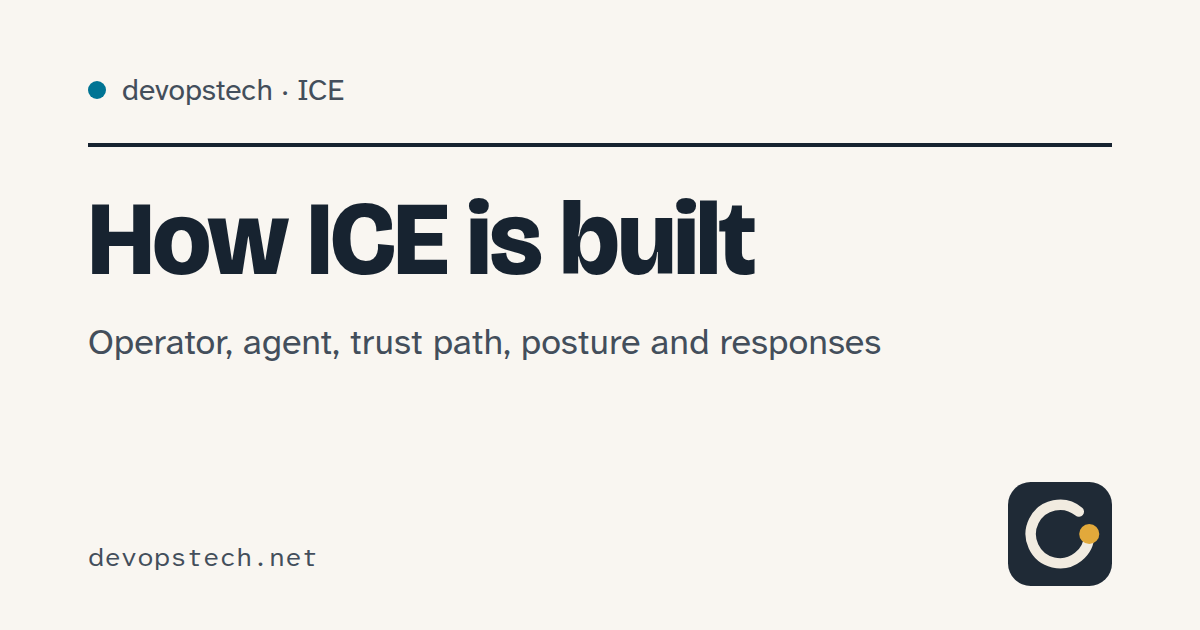
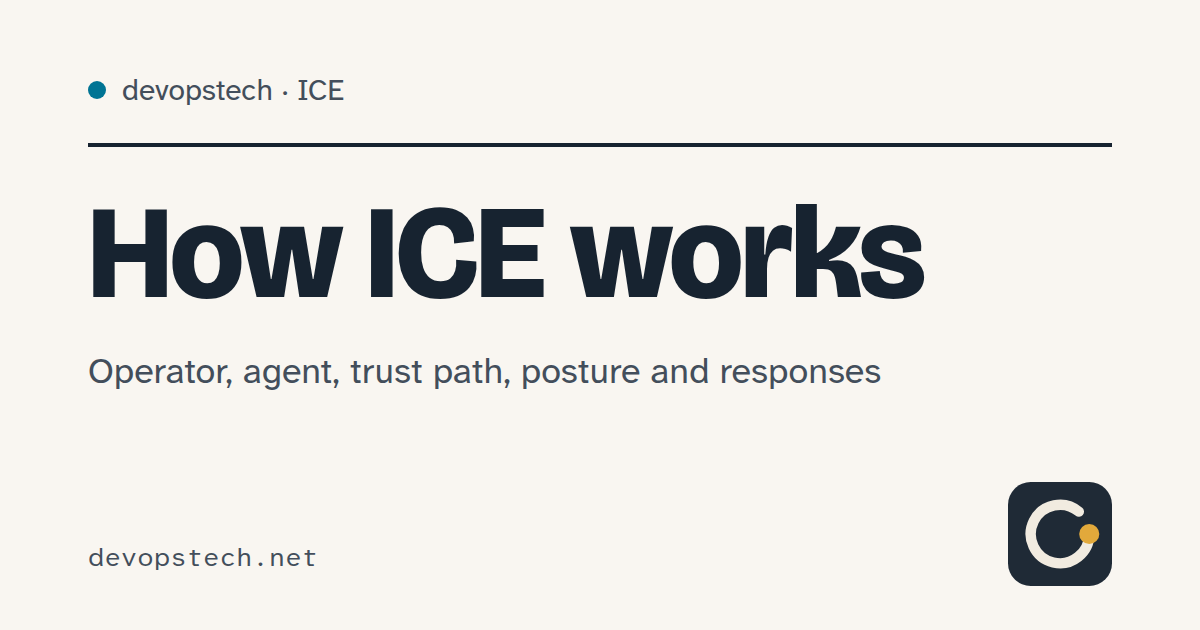
docs(site): SEO basics, with ICE first
- Canonical link on every page from transformHead; the hand-written
  canonical blocks in 12 pages are gone (guide pages had none).
- JSON-LD: WebSite on the home page, SoftwareApplication for ICE, deusex and
  KubeMeridian, TechArticle for the how-it-works and method pages,
  BlogPosting (dates, tags, image) for posts.
- robots.txt allows everything and points at the sitemap; Cloudflare's
  content-signal comments were the only content before.
- ICE: title and H1 carry "Kubernetes" (the name alone is not searchable);
  new "Works with the stack you already run" table (Falco, Tetragon,
  Prometheus, Loki, Trivy, Grype, Kyverno, Istio, Linkerd, Argo CD, GitHub,
  GitLab, OIDC, MCP) and a short Questions section; "How ICE is built"
  becomes "How ICE works".

Changed region(s): [[0.0617, 0.3016, 0.7708, 0.4825], [0.0617, 0.5127, 0.74, 0.6333]]

diff --git a/docs/.vitepress/site-meta.ts b/docs/.vitepress/site-meta.ts
@@ -2,9 +2,9 @@
 import { existsSync, readFileSync, writeFileSync } from 'node:fs';
 import { join } from 'node:path';
 import type { HeadConfig, PageData } from 'vitepress';
-import { DOCS, blogPosts } from './blog.mjs';
+import { DOCS, blogPosts, isoDate } from './blog.mjs';
 import { cardSpecs } from './og-specs.mjs';
-import { isKubeMeridianPage } from './kubemeridian.mjs';
+import { KM_LAST_RELEASE, isKubeMeridianPage } from './kubemeridian.mjs';
 
 export const SITE = 'https://devopstech.net';
 export const SITE_TITLE = 'devopstech';
@@ -39,13 +39,73 @@ function ogImage(relativePath: string): string {
   return `${SITE}/devopstech.svg`;
 }
 
-export function socialHead(pageData: PageData): HeadConfig[] {
+const PUBLISHER = { '@type': 'Organization', name: SITE_TITLE, url: `${SITE}/`, logo: `${SITE}/devopstech.svg` };
+
+// Pages that describe a piece of software, for schema.org SoftwareApplication.
+const SOFTWARE: Record<string, Record<string, unknown>> = {
+  'ice/index.md': { name: 'ICE', applicationCategory: 'SecurityApplication', operatingSystem: 'Kubernetes' },
+  'deusex/index.md': { name: 'deusex', applicationCategory: 'DeveloperApplication' },
+  'kubemeridian.md': {
+    name: 'KubeMeridian',
+    applicationCategory: 'DeveloperApplication',
+    operatingSystem: 'Grafana',
+    softwareVersion: KM_LAST_RELEASE.replace(/^v/, ''),
+    license: 'https://www.apache.org/licenses/LICENSE-2.0',
+    sameAs: 'https://github.com/blackcheshire13/kubemeridian',
+  },
+};
+// Long-form pages that explain one of them.
+const ABOUT: Record<string, string> = { 'ice/how-it-works.md': 'ICE', 'deusex/method.md': 'deusex' };
+
+function structuredData(pageData: PageData, title: string, description: string, url: string, image: string) {
+  const rel = pageData.relativePath;
+  if (rel === 'index.md') {
+    return { '@context': 'https://schema.org', '@type': 'WebSite', name: SITE_TITLE, url: `${SITE}/`, description, publisher: PUBLISHER };
+  }
+  if (SOFTWARE[rel]) {
+    return { '@context': 'https://schema.org', '@type': 'SoftwareApplication', ...SOFTWARE[rel], description, url, image, publisher: PUBLISHER };
+  }
+  if (ABOUT[rel]) {
+    return {
+      '@context': 'https://schema.org',
+      '@type': 'TechArticle',
+      headline: title,
+      description,
+      url,
+      image,
+      about: { '@type': 'SoftwareApplication', name: ABOUT[rel] },
+      author: PUBLISHER,
+      publisher: PUBLISHER,
+    };
+  }
+  if (rel.startsWith('blog/') && rel !== 'blog/index.md' && pageData.frontmatter.date) {
+    return {
+      '@context': 'https://schema.org',
+      '@type': 'BlogPosting',
+      headline: title,
+      description,
+      url,
+      mainEntityOfPage: url,
+      image,
+      datePublished: isoDate(pageData.frontmatter.date),
+      ...(pageData.lastUpdated ? { dateModified: new Date(pageData.lastUpdated).toISOString() } : {}),
+      keywords: Array.isArray(pageData.frontmatter.tags) ? pageData.frontmatter.tags.join(', ') : undefined,
+      author: PUBLISHER,
+      publisher: PUBLISHER,
+    };
+  }
+  return null;
+}
+
+// <head> additions for every page: canonical URL, Open Graph / Twitter cards, JSON-LD.
+export function pageHead(pageData: PageData): HeadConfig[] {
   const title = pageData.frontmatter.title || pageData.title || SITE_TITLE;
   const description = pageData.frontmatter.description || pageData.description || SITE_DESCRIPTION;
   const url = SITE + pagePath(pageData.relativePath);
   const image = ogImage(pageData.relativePath);
   const isPost = pageData.relativePath.startsWith('blog/') && !pageData.relativePath.endsWith('index.md');
-  return [
+  const head: HeadConfig[] = [
+    ['link', { rel: 'canonical', href: url }],
     ['meta', { property: 'og:type', content: isPost ? 'article' : 'website' }],
     ['meta', { property: 'og:title', content: title }],
     ['meta', { property: 'og:description', content: description }],
@@ -58,6 +118,12 @@ export function socialHead(pageData: PageData): HeadConfig[] {
     ['meta', { name: 'twitter:description', content: description }],
     ['meta', { name: 'twitter:image', content: image }],
   ];
+  const data = structuredData(pageData, title, description, url, image);
+  if (data) {
+    // `<` escaped so a title can never close the script element
+    head.push(['script', { type: 'application/ld+json' }, JSON.stringify(data).replace(/</g, '\\u003c')]);
+  }
+  return head;
 }
 
 // The cards are rendered by hand and committed, so the build refuses to ship a page whose

diff --git a/docs/ice/index.md b/docs/ice/index.md
@@ -1,13 +1,9 @@
 ---
-title: ICE — active defence for Kubernetes
-description: ICE turns findings and drift into GitOps pull requests a person approves, and closes a problem only when a measurement taken after the merge proves it is fixed.
-head:
-  - - link
-    - rel: canonical
-      href: https://devopstech.net/ice/
+title: ICE — Kubernetes active defence with GitOps remediation
+description: ICE is active defence for Kubernetes. Findings and drift become GitOps pull requests a person approves, and a case closes only when a fresh measurement proves the fix.
 ---
 
-# ICE
+# ICE: active defence for Kubernetes
 
 <p class="dt-lede">Not a scanner — a loop. ICE turns findings and drift into GitOps pull requests that a
 person approves, and calls a problem fixed only when a measurement taken <em>after</em> the merge says so.</p>
@@ -89,6 +85,24 @@ ICE never reaches out to anything else.
 proving-ground name into the product, and portability is checked against a synthetic
 company profile.
 
+## Works with the stack you already run
+
+ICE does not replace your detection or policy tools — it takes their output and decides
+what to do with it, then proves whether it worked.
+
+| Your tool | What ICE does with it |
+| --- | --- |
+| Falco, Tetragon | receives syscall events as runtime signals |
+| Prometheus, Alertmanager | renders PromQL detectors into `PrometheusRule`; alerts arrive at the agent |
+| Loki | LogQL detectors; a log pack switches itself off if the ruler cannot deliver alerts |
+| Trivy, Grype | image scans from your CI, a delta to the accepted baseline, CycloneDX SBOMs |
+| Kyverno | reads `PolicyReport` objects as posture facts; proposes policies in audit mode only |
+| Istio, Linkerd | posture checks and authorisation-by-service-account responses |
+| Argo CD | a case is `deployed` only when the application is Synced on the merge revision |
+| GitHub, GitLab | remediation pull requests in your GitOps repository |
+| OIDC (Keycloak and others) | console sign-in and the approver role |
+| MCP clients | read-only tools for AI assistants, off by default |
+
 ## Honest status
 
 ICE has its own rule for honesty: a capability can be marked **live** only with dated
@@ -112,10 +126,29 @@ automated walk-through of the console.
 end-to-end on a live cluster; the second proving-ground cluster is not connected; there are
 no tagged releases; one trust domain per installation, no multi-tenancy.
 
+## Questions
+
+**Is ICE a scanner?** No. Scans are one input. ICE runs from detection to a verified fix:
+findings become pull requests a person approves, and a case closes only on a measurement
+taken after the merge.
+
+**Does ICE change my cluster?** Not directly. The operator has no write rights outside its
+own resources; changes reach the cluster as pull requests to your GitOps repository, and
+your pipeline applies them. The one exception is a trap response, and only if you opt in.
+
+**Does it replace Falco or Kyverno?** No — it consumes what they report and turns it into
+decisions, pull requests and verified outcomes.
+
+**Is ICE open source?** It will be released under Apache-2.0. Until then it is developed in
+private, with design partners.
+
+**Where does it run?** On any Kubernetes cluster, with a collector for plain servers. A
+local trial on `kind` takes 15–20 minutes.
+
 ## Want ICE on your cluster?
 
 I'm looking for **design partners**: a team running Kubernetes in production that wants the
 loop on its estate before the public release, and will tell me where it hurts.
 Write to [qdrrag@gmail.com](mailto:qdrrag@gmail.com?subject=ICE%20design%20partner).
 
-Next: [how ICE is built →](/ice/how-it-works)
+Next: [how ICE works →](/ice/how-it-works)

diff --git a/docs/ice/how-it-works.md b/docs/ice/how-it-works.md
@@ -1,13 +1,9 @@
 ---
-title: How ICE is built
+title: How ICE works — Kubernetes operator, agent and GitOps remediation
 description: The components of ICE — operator, API, console, agent and scan pipeline — the trust path from a read-only agent to a GitOps pull request, posture states and the response catalogue.
-head:
-  - - link
-    - rel: canonical
-      href: https://devopstech.net/ice/how-it-works
 ---
 
-# How ICE is built
+# How ICE works
 
 ICE is a Kubernetes operator with an API, a console and a small agent. It stores facts,
 proposes changes and checks their outcome — but it never applies a change to your cluster

diff --git a/docs/blog/what-i-have-not-handed-over.md b/docs/blog/what-i-have-not-handed-over.md
@@ -4,10 +4,6 @@ title: "What I haven't handed to the machine yet"
 sidebarTitle: What I haven't handed over
 description: deusex runs most of my backlog around the clock; the goal is that I decide only the concept. As of October 2026, here is the honest remainder — what is solvable and just not done, and what no method will ever take off a person.
 tags: [deusex, autonomous-development, agents, engineering-process]
-head:
-  - - link
-    - rel: canonical
-      href: https://devopstech.net/blog/what-i-have-not-handed-over
 ---
 
 # What I haven't handed to the machine yet

diff --git a/docs/blog/consolidating-kubernetes-clusters.md b/docs/blog/consolidating-kubernetes-clusters.md
@@ -4,10 +4,6 @@ title: "From 10+ Kubernetes clusters to 4: a hub-and-spoke ArgoCD story"
 sidebarTitle: Clusters → hub-and-spoke ArgoCD
 description: How we consolidated 10+ Kubernetes clusters across four clouds into four, under one hub-and-spoke ArgoCD control plane — topology, GitOps layout and the gotchas.
 tags: [kubernetes, argocd, gitops, platform-engineering]
-head:
-  - - link
-    - rel: canonical
-      href: https://devopstech.net/blog/consolidating-kubernetes-clusters
 ---
 
 # From 10+ Kubernetes clusters to 4: a hub-and-spoke ArgoCD story

diff --git a/docs/blog/live-needs-evidence.md b/docs/blog/live-needs-evidence.md
@@ -4,10 +4,6 @@ title: "Live needs evidence: how ICE keeps its own feature list honest"
 sidebarTitle: Live needs evidence
 description: A security product that promises to call the unverified unverified has to apply the rule to itself. Five capability statuses, a dated evidence mark that CI enforces, and the five rows that lost their live status the day after the gate landed.
 tags: [ice, engineering-process, testing, honesty]
-head:
-  - - link
-    - rel: canonical
-      href: https://devopstech.net/blog/live-needs-evidence
 ---
 
 # Live needs evidence

diff --git a/docs/blog/vault-ha-on-kubernetes.md b/docs/blog/vault-ha-on-kubernetes.md
@@ -4,10 +4,6 @@ title: "Vault HA on Kubernetes: auto-unseal, dynamic secrets, and a DR runbook"
 sidebarTitle: Vault HA on Kubernetes
 description: A production-minded HashiCorp Vault setup on Kubernetes — HA storage, auto-unseal via cloud KMS, Kubernetes auth, dynamic secrets and a disaster-recovery runbook.
 tags: [vault, kubernetes, security, secrets-management]
-head:
-  - - link
-    - rel: canonical
-      href: https://devopstech.net/blog/vault-ha-on-kubernetes
 ---
 
 # Vault HA on Kubernetes: auto-unseal, dynamic secrets, and a DR runbook

diff --git a/docs/blog/the-bottleneck-is-the-human.md b/docs/blog/the-bottleneck-is-the-human.md
@@ -4,10 +4,6 @@ title: "The bottleneck is the human: a week when every agent worked and nothing 
 sidebarTitle: The bottleneck is the human
 description: An autonomous development loop where every role behaved as designed — and two green one-line fixes waited six days. Why refusals by category never expire, and what deusex changed.
 tags: [deusex, autonomous-development, agents, engineering-process]
-head:
-  - - link
-    - rel: canonical
-      href: https://devopstech.net/blog/the-bottleneck-is-the-human
 ---
 
 # The bottleneck is the human

diff --git a/docs/index.md b/docs/index.md
@@ -2,11 +2,7 @@
 layout: page
 title: devopstech — production engineering, closed loop
 titleTemplate: false
-description: ICE (active defence for Kubernetes), deusex (an autonomous development loop) and KubeMeridian (Kubernetes observability for Grafana, archived).
-head:
-  - - link
-    - rel: canonical
-      href: https://devopstech.net/
+description: ICE — active defence and GitOps remediation for Kubernetes; deusex — an autonomous development loop; plus the archived KubeMeridian plugin for Grafana.
 ---
 
 <HubHome />

diff --git a/docs/blog/merged-is-not-fixed.md b/docs/blog/merged-is-not-fixed.md
@@ -4,10 +4,6 @@ title: "Merged is not deployed, deployed is not fixed"
 sidebarTitle: Merged is not fixed
 description: Why ICE closes a security finding only on a measurement taken after the merge — and how Argo CD's sync revision, freshness cadences and Unknown-as-unmet keep the loop honest.
 tags: [ice, kubernetes, gitops, security]
-head:
-  - - link
-    - rel: canonical
-      href: https://devopstech.net/blog/merged-is-not-fixed
 ---
 
 # Merged is not deployed, deployed is not fixed

diff --git a/docs/deusex/method.md b/docs/deusex/method.md
@@ -1,10 +1,6 @@
 ---
 title: The deusex method — roles and invariants
 description: The roles of the deusex loop and what holds each one's rights, the merge policy written as code, and the invariants — each one added after a concrete failure.
-head:
-  - - link
-    - rel: canonical
-      href: https://devopstech.net/deusex/method
 ---
 
 # The method

diff --git a/docs/deusex/index.md b/docs/deusex/index.md
@@ -1,10 +1,6 @@
 ---
 title: deusex — an autonomous development loop
 description: deusex turns a vision document into working, merged code. Agents plan, build, review and merge on a schedule; a person decides only the concept.
-head:
-  - - link
-    - rel: canonical
-      href: https://devopstech.net/deusex/
 ---
 
 # deusex
